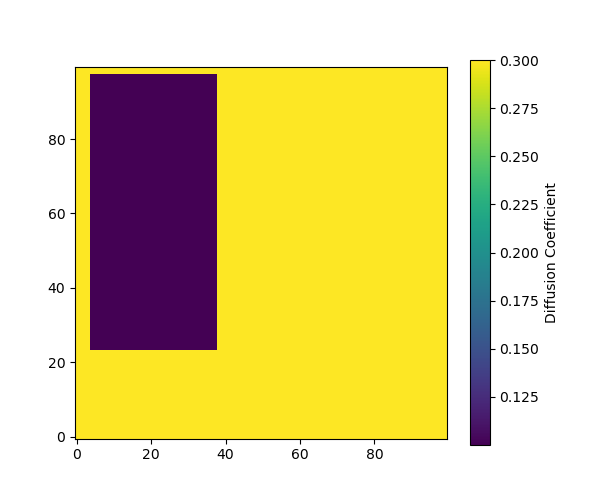
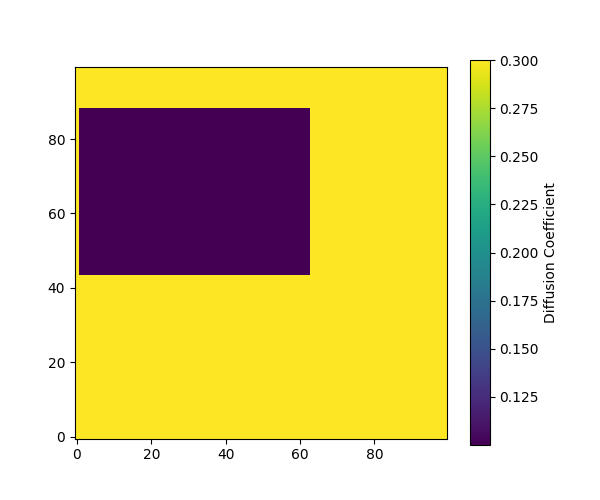
save

diff --git a/calibrate_diffusion.py b/calibrate_diffusion.py
@@ -1,6 +1,8 @@
 import torch
 import torch.nn.functional as F
 from utils import rk4_step
+import re
+
 
 def calibrate_diffusivity(
     T_obs,           # Tensor of shape (nt, ny, nx): observed temperature data
@@ -14,6 +16,8 @@ def calibrate_diffusivity(
 ):
     # Move data to device
     T_obs = T_obs.to(device)
+    print(T_obs.shape)
+    T_obs = T_obs[0]
     nt, ny, nx = T_obs.shape
     
     # Initialize parameters (ensure they are within a positive range)
@@ -26,7 +30,9 @@ def calibrate_diffusivity(
     # Calibration loop
     for epoch in range(epochs):
         # Build diffusivity map for this iteration
-        D = torch.full((ny, nx), d_out, device=device)
+        D = torch.ones((ny, nx), device=device) * d_out
+        print(D.shape)
+        print(f"start_x: {start_x}, end_x: {end_x}, start_y: {start_y}, end_y: {end_y}")
         D[start_x:end_x, start_y:end_y] = d_in
         
         # Simulate forward using RK4
@@ -35,7 +41,6 @@ def calibrate_diffusivity(
         for t in range(nt - 1):
             T[t + 1] = rk4_step(T[t], D, dx, dy, dt)
         
-        # Compute loss: MSE on final snapshot (or could sum over all times)
         weights = torch.linspace(0.1, 1.0, nt, device=device)   # ramp up weight
         loss = sum(weights[t] * F.mse_loss(T[t], T_obs[t]) for t in range(nt))
         
@@ -49,19 +54,32 @@ def calibrate_diffusivity(
         d_out.data.clamp_(1e-6, 10.0)
         
         losses.append(loss.item())
-        if (epoch + 1) % 20 == 0:
-            print(f"Epoch {epoch+1}/{epochs}, Loss: {loss.item():.6f}, d_in: {d_in.item():.4f}, d_out: {d_out.item():.4f}")
+        print(f"Epoch {epoch+1}/{epochs}, Loss: {loss.item():.6f}, d_in: {d_in.item():.4f}, d_out: {d_out.item():.4f}")
     
     return d_in.item(), d_out.item(), losses
 
-device = 'cuda' if torch.cuda.is_available() else 'cpu'
 
-T_obs = torch.load('T_obs.pt')
 
-d_in_est, d_out_est, training_losses = calibrate_diffusivity(
-    T_obs, dx=0.01, dy=0.01, dt=1e-4,
-    start_x=50, start_y=20, end_x=150, end_y=80,
-    device=device
-)
+def main():
+    device = 'cuda' if torch.cuda.is_available() else 'cpu'
+    simulation_file_name = "0513_112407_simulation_n10_t00.030_t0.030_nx100_ny100_din0.1_dout0.3_sy1_ey63_sx44_ex89.pt"
+    
+    T_obs = torch.load(f'./datasets/simulation/{simulation_file_name}').to(device)
 
-print("Estimated d_in:", d_in_est, "Estimated d_out:", d_out_est)
+    pattern = r"_sy(\d+)_ey(\d+)_sx(\d+)_ex(\d+)"
+    match = re.search(pattern, simulation_file_name)
+
+    if match:
+        sy = int(match.group(1))
+        sx = int(match.group(3))
+        print(f"Extracted values:\nstart_y (sy) = {sy}\nstart_x (sx) = {sx}")
+    else:
+        print("Pattern not found in filename.")
+    
+    d_in_est, d_out_est, training_losses = calibrate_diffusivity(
+        T_obs, dx=0.01, dy=0.01, dt=5e-5,
+        start_x=20, start_y=20, end_x=70, end_y=70,
+        device=device
+    )
+
+    print("Estimated d_in:", d_in_est, "Estimated d_out:", d_out_est)

diff --git a/dataset.py b/dataset.py
@@ -300,6 +300,39 @@ class SimulationDataset(td.Dataset):
         return self.inputs.shape[0]
 
 
+class FullSimulationDataset(td.Dataset):
+    def __init__(      
+        self, 
+        num_simulations, 
+        nx, ny, dx, dy, nt, dt, 
+        d_in, d_out,
+        start_x, start_y, end_x, end_y,
+        noise_amplitude, 
+        device,
+        save_path
+    ):
+        
+        super().__init__()
+        data = []
+        for i in range(num_simulations):
+            print(f"generating simulation {i}")
+            T_series = simulate_simulation(nx, ny, dx, dy, nt, dt,
+                                           d_in=d_in, d_out=d_out,
+                                             start_x=start_x, end_x=end_x, start_y=start_y, end_y=end_y,
+                                            noise_amplitude=noise_amplitude, device=device)
+            data.append(T_series.cpu())
+            del T_series
+            torch.cuda.empty_cache()
+        self.data = torch.stack(data)
+        torch.save(self.data, save_path)
+
+    def __getitem__(self, index): 
+        return (self.data[index], self.data[index])
+
+    def __len__(self):
+        return self.data.shape[0]
+
+
 class OperatorFieldMappingDataset(OperatorDataset):
     def __init__(
         self, 
@@ -442,7 +475,7 @@ if __name__ == "__main__":
 
     nx, ny = 100, 100
     dx, dy = 0.01, 0.01
-    num_simulations = 10000
+    num_simulations = 10
     nt = 300
     t0 = nt - 1
     d_in = 0.1
@@ -472,7 +505,7 @@ if __name__ == "__main__":
     plt.savefig("diffusion_coefficient.png")
     plt.show()
 
-    simulation_dataset = SimulationDataset(
+    simulation_dataset = FullSimulationDataset(
         num_simulations=num_simulations,
         nx=nx,
         ny=ny,
@@ -488,7 +521,7 @@ if __name__ == "__main__":
         dt=dt,
         noise_amplitude=noise_amplitude,
         device=device,
-        t0=t0,
+        # t0=t0,
         save_path=save_path_simulation
     )
     # ######################################################
